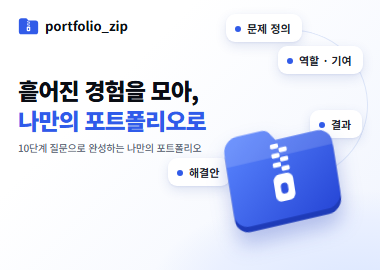
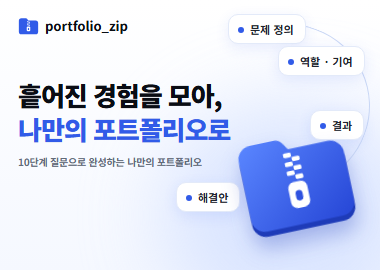
프로젝트 커버 이미지를 브로셔 디자인에 맞춰 변경

diff --git a/docs/decisions.md b/docs/decisions.md
@@ -623,3 +623,11 @@
 - **수정(같은 날, 3차)**: 브로셔 디자인을 랜딩페이지 스타일로 다시 만들었다(유리 느낌 반투명 카드, 파랑·보라·하늘색 빛 번짐 배경, 번호 원, 말풍선 카드, 어두운 마무리 구간, 이모지). 줄글을 줄이고 번호·체크 목록·칩으로 나눴다. 크기 1240×6102. 제작 회고는 Keep / Problem / Try로 바꾸고, Try에 "주변 핵심 대상 5명에게 사용성 테스트, 5명 중 4명 이상이 도움 없이 첫 프로젝트 기록을 마치는지 확인"을 넣었다(4명 기준은 spec 1.3의 첫 가치 도달 검증 기준에서 가져옴). 문체는 '~해요'로 통일했다.
 - **다른 선택지**: 근거 카드를 3~4열로 촘촘히 배치(글자가 작아져 제외), 81.6%(한국경영자총협회) 카드 추가(사용자가 요청하지 않아 제외).
 - **수정(같은 날, 4차)**: 브로셔 문제 정의의 ①② 카드를 뺐다. 해결 방안은 10단계 칩 목록을 지우고 사용자가 정한 문구로 바꿨다(1 막막한 포트폴리오, 질문에 답하며 쉽게 시작 / 2 흩어진 경험은 한곳에, 필요한 경험만 골라서 / 3 단순한 활동 나열을 넘어, 나의 기여와 성과까지). 이 과정에서 "9년 차 PM 작성 방식·한국PM협회 PSC 템플릿 참고" 문장이 브로셔에서 빠졌다. 크기 1240×5817.
+
+## 2026-10-12 — 프로젝트 커버 이미지를 브로셔 디자인에 맞춰 변경
+- **정한 것**: 380×270 커버를 브로셔와 같은 랜딩페이지 스타일로 다시 만들었다(번지는 파랑·보라·하늘색 빛 배경, 유리 느낌 반투명 카드·칩, 입체 폴더). 윗줄에 "기획·PM 지원자를 위한 Career Archive" 알약, 아래에 "제 3부 · 제8부스 · 김채연" 알약을 추가했다. 제목·보조 문구·칩 4개는 이전과 같다.
+- **왜**: 브로셔(`제 3부_제8부스_김채연_브로셔`)와 커버가 같은 서비스로 보이게 하려고.
+- **수정(같은 날, 2차)**: 커버 이미지가 얼룩덜룩해 보여서 배경을 흰색→연한 파랑의 단색 그라데이션으로 바꾸고, 빛 번짐은 오른쪽 아래 폴더 뒤 한 군데만 남겼다. 칩·알약은 반투명 대신 흰 바탕 + 옅은 테두리로 바꿨다. "제 3부 · 제8부스 · 김채연" 알약은 사용자 요청으로 뺐다.
+- **수정(같은 날, 3차)**: 커버 이미지에 칩들을 잇는 얇은 곡선(궤도선, 옅은 파랑)을 다시 넣었다.
+- **수정(같은 날, 4차)**: 두 안(알약 있음/없음)을 비교해 알약이 없는 쪽으로 정했다. "기획·PM 지원자를 위한 Career Archive" 알약을 빼고(9px라 작은 크기에서 읽히지 않고 제목과 겹쳐 복잡해 보임), 제목을 23→26px로 키웠다. 부제와 폴더가 겹치지 않게 폴더·칩 위치를 조금 옮겼다.
+- **다른 선택지**: 알약을 남기는 안(이 이미지만 보고 기획·PM용임을 알릴 수 있으나 브로셔 본문에 이미 있는 내용).
